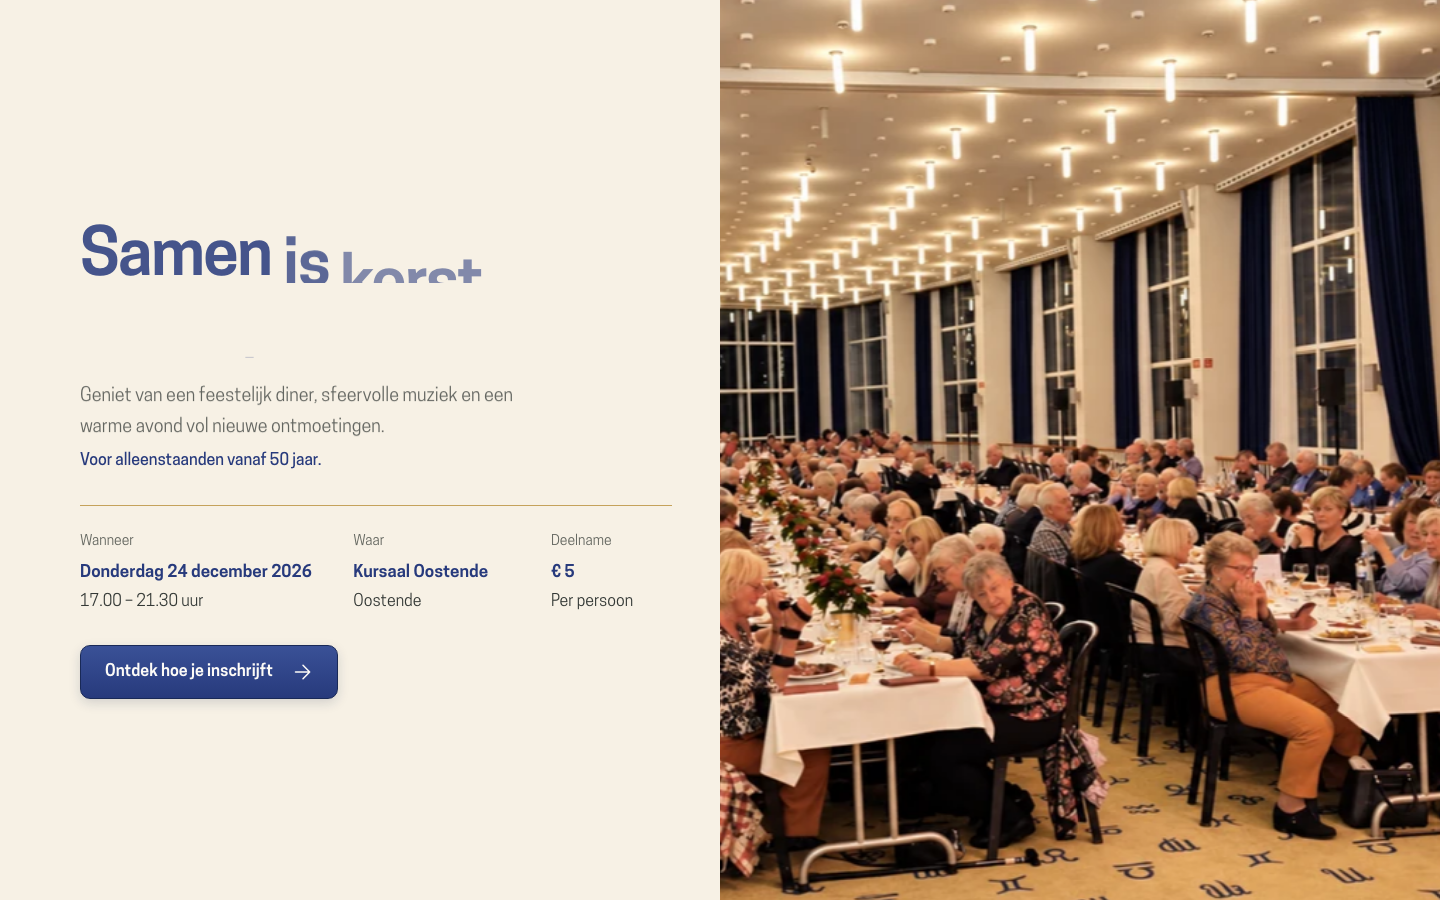
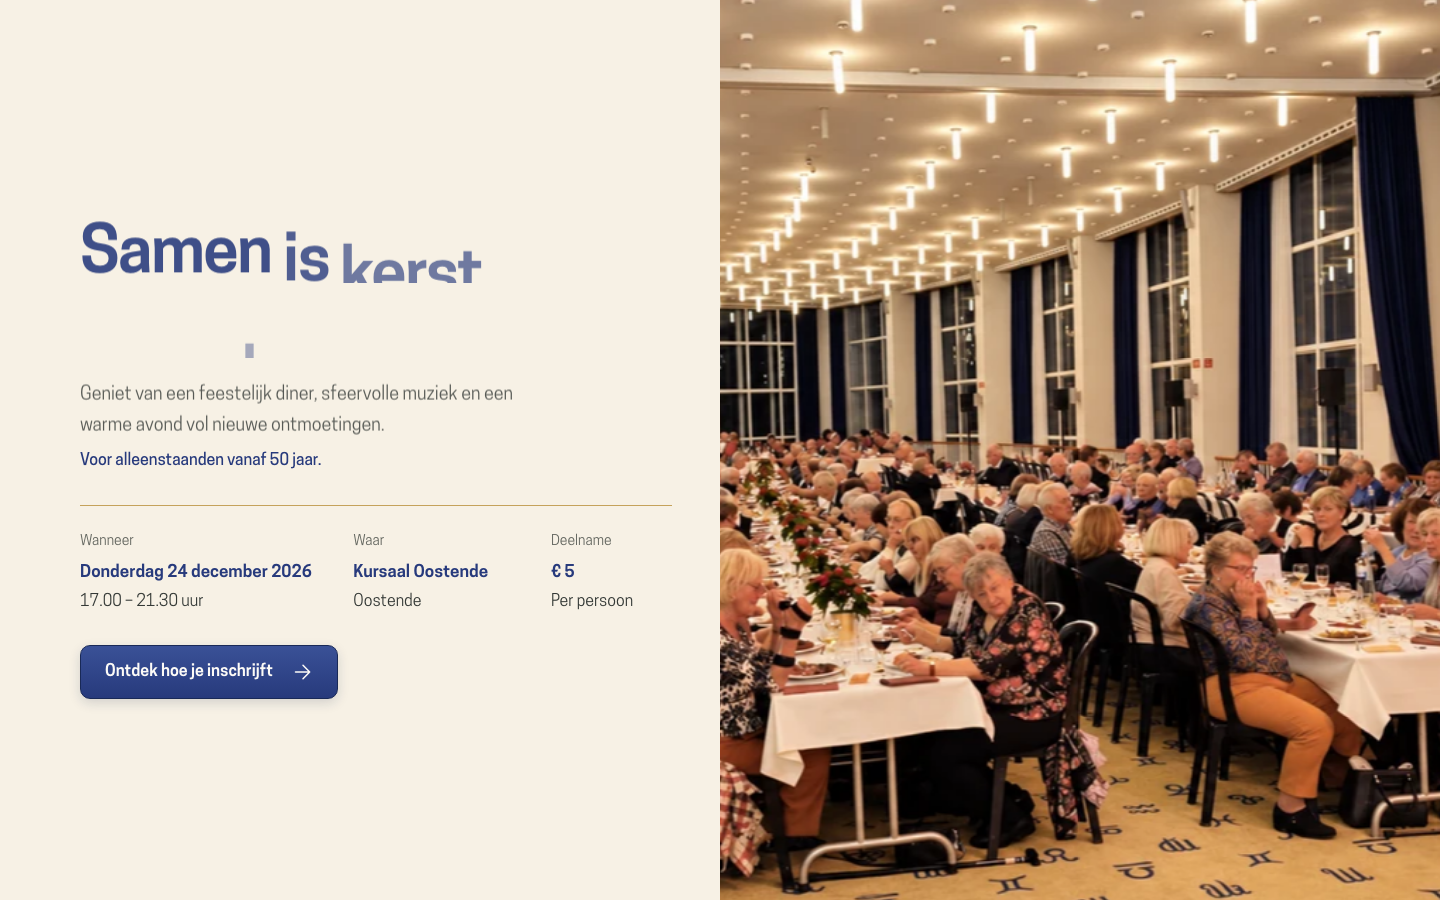
Behoud zichtbare inhoud tijdens openschuiven hero

Changed region(s): [[0.0625, 0.4356, 0.3438, 0.4978], [0.0625, 0.2489, 0.3438, 0.3111], [0.1562, 0.3733, 0.1875, 0.4044]]

diff --git a/src/scripts/motion.ts b/src/scripts/motion.ts
@@ -174,10 +174,7 @@ function startHeroTransition() {
   const right = hero?.querySelector<HTMLElement>('.hero-photo');
   const practical = stage?.querySelector<HTMLElement>('.practical');
   if (!scene || !stage || !hero || !invitation || !left || !right || !practical) return;
-  const copy = hero.querySelector<HTMLElement>('.hero-copy');
   const image = right.querySelector<HTMLImageElement>('img');
-  const title = practical.querySelector<HTMLElement>('h2');
-  const groups = [...practical.querySelectorAll<HTMLElement>('.practical-composition, .agenda-note, .practical-details')];
   const smooth = (value: number) => {
     const t = Math.min(1, Math.max(0, value));
     return t * t * (3 - 2 * t);
@@ -196,20 +193,11 @@ function startHeroTransition() {
     if (progress > 0) finishHeroEntrance();
     left.style.transform = `translate3d(${-leftProgress * 101}%, 0, 0)`;
     right.style.transform = `translate3d(${rightProgress * 101}%, 0, 0)`;
-    if (copy) copy.style.opacity = `${1 - smooth(progress / .25)}`;
     // Independent transform properties preserve the image's load-time zoom.
     if (image) {
       image.style.translate = `${-rightProgress * 1.5}% 0`;
       image.style.scale = `${1 + rightProgress * .04}`;
     }
-    // Keep the opening quiet until there is room to read the arriving content.
-    const reveal = (element: HTMLElement, start: number, end: number, distance: number) => {
-      const amount = smooth((progress - start) / (end - start));
-      element.style.opacity = `${amount}`;
-      element.style.transform = `translate3d(0, ${(1 - amount) * distance}px, 0)`;
-    };
-    if (title) reveal(title, .58, .82, 12);
-    groups.forEach((group, index) => reveal(group, .66 + index * .025, .92 + index * .01, 18));
     hero.style.visibility = progress === 1 ? 'hidden' : 'visible';
     hero.style.pointerEvents = progress > 0 ? 'none' : '';
     hero.inert = progress > 0;
@@ -226,7 +214,7 @@ function startHeroTransition() {
     hero.style.removeProperty('visibility');
     hero.style.removeProperty('pointer-events');
     hero.inert = practical.inert = false;
-    for (const panel of [left, right, practical, copy, title, ...groups]) {
+    for (const panel of [left, right, practical]) {
       if (!panel) continue;
       panel.style.removeProperty('transform');
       panel.style.removeProperty('opacity');
@@ -245,8 +233,7 @@ function startHeroTransition() {
     scene.style.setProperty('--split-stage-height', `${stage.getBoundingClientRect().height}px`);
     update();
   };
-  // Layout offsets exclude the reveal transforms, so anchors land precisely
-  // even when their destination is still partway through its entrance.
+  // Layout offsets keep anchors independent of the moving hero panels.
   const offsetInStage = (target: HTMLElement) => {
     let offset = 0;
     let node: HTMLElement | null = target;

diff --git a/DESIGN.md b/DESIGN.md
@@ -491,3 +491,7 @@ Op gestapelde schermen, bij reduced motion en zonder JavaScript blijven hero en 
 ### Verfijnde regie van de hero-overgang — 27 oktober 2026
 
 De herotekst vervaagt in het eerste kwart van de scrollbeweging. Het ivoren paneel opent vanaf 2% van de afstand, de foto vanaf 10%; beide zijn vóór het einde volledig uit beeld. Het beeld beweegt binnen het fotovlak maximaal 1,5% met 4% schaalreserve. De praktische titel verschijnt tussen 58 en 82%, de inhoud volgt kort daarna en staat vóór de vrijgave stil. Alle bewegingen volgen dezelfde omkeerbare scrollpositie. Zodra de overgang begint, worden lopende hero-entrees afgerond zodat titelentree en vertrek niet door elkaar lopen. Ankerposities worden uit layoutafstanden berekend, onafhankelijk van de onthullingstransforms. Reduced motion en mobiele documentflow herstellen ook alle nieuwe opacity-, translate- en scale-eigenschappen.
+
+### Correctie: inhoud blijft zichtbaar tijdens het openen — 27 oktober 2026
+
+De gebruiker wijst de vervagingen en lege tussenbeelden expliciet af. De linker herotekst blijft daarom volledig zichtbaar en beweegt met het ivoren paneel mee uit beeld. De praktische titel en alle informatie staan vanaf het begin volledig zichtbaar achter de panelen, zonder opacity- of binnenkomstanimatie. Alleen het openschuiven bepaalt wat zichtbaar wordt. Dit vervangt de vervagings- en onthullingstiming uit de vorige paragraaf. De verschillende paneeltiming, subtiele fotobeweging en afhandeling van lopende hero-entrees blijven behouden.
